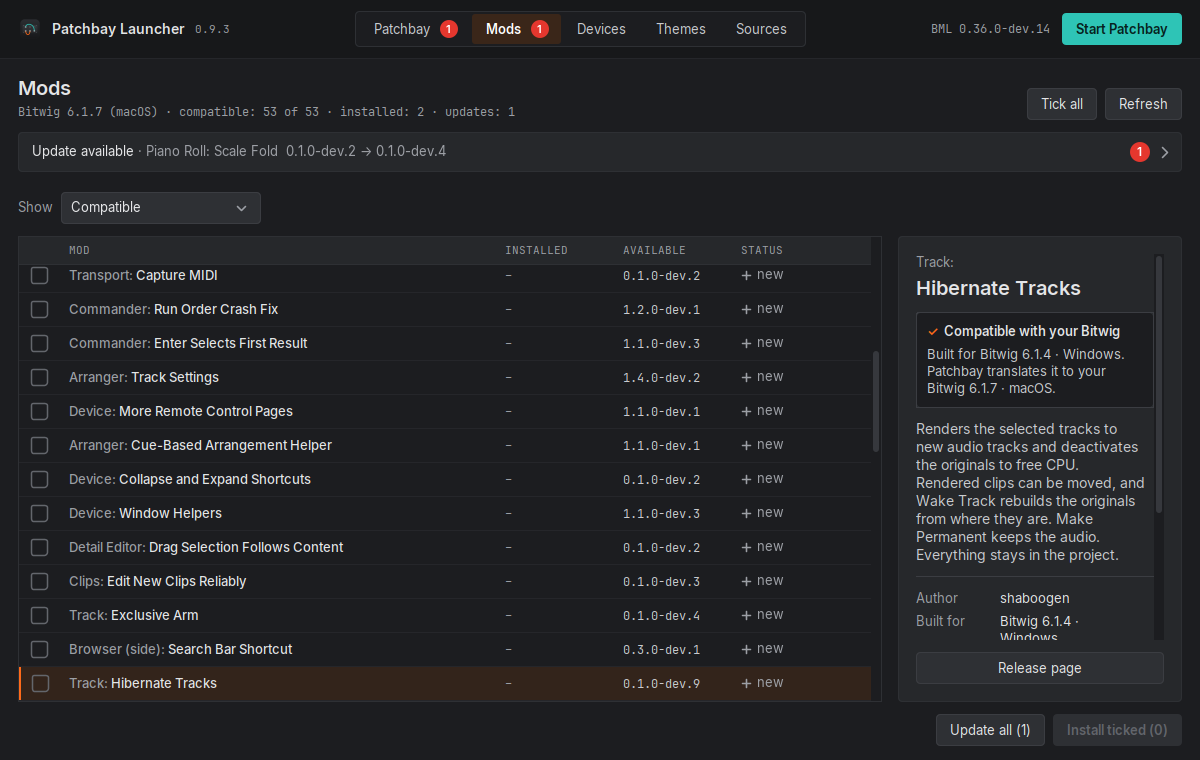
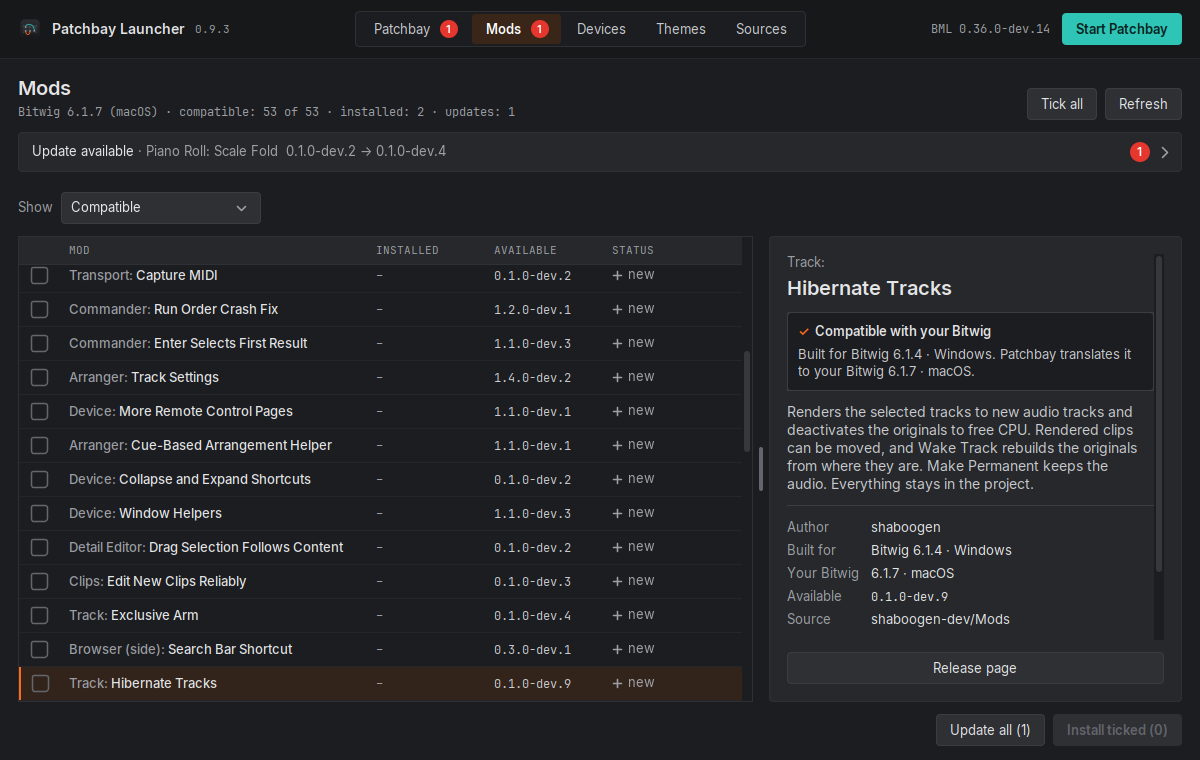
Resizable split between the list and the details
The details take about a third of the width and grow with the window;
the divider can be dragged (remembered for Mods, Devices and Themes) and
double-clicked to reset. Wrapped text and previews follow the width.

Claude-Session: https://claude.ai/code/session_01NY4XL7uJczLdFhWieRK4LM

diff --git a/src/Theme.java b/src/Theme.java
@@ -512,13 +512,194 @@ public final class Theme {
         return l;
     }
 
-    /** Text that wraps at the given width. */
+    /** Text that wraps to the width it is given; width is what it asks for when nothing gives it more. */
     static JLabel wrapped(String text, int width, Color color, float size) {
         String safe = text.replace("&", "&amp;").replace("<", "&lt;").replace(">", "&gt;");
-        JLabel l = new JLabel("<html><body style='width:" + width + "px'>" + safe + "</body></html>");
+        JLabel l = new Wrap("<html>" + safe + "</html>", width);
         l.setFont(text(size));
         l.setForeground(color);
         return l;
+    }
+
+    /**
+     * An HTML label that wraps at its current width, so text in a panel the user can widen fills it.
+     * It asks for the given width; a layout that gives it more (a column, the centre of a border layout) gets taller-to-shorter text.
+     */
+    static final class Wrap extends JLabel {
+        private final int hint;
+        private int measured = -1;
+
+        Wrap(String html, int hint) {
+            super(html);
+            this.hint = hint;
+            setVerticalAlignment(SwingConstants.TOP);
+            addComponentListener(new java.awt.event.ComponentAdapter() {
+                @Override public void componentResized(java.awt.event.ComponentEvent e) {
+                    if (getWidth() != measured) { measured = getWidth(); revalidate(); }
+                }
+            });
+        }
+
+        private int heightAt(int width) {
+            Object v = getClientProperty(javax.swing.plaf.basic.BasicHTML.propertyKey);
+            Insets in = getInsets();
+            if (!(v instanceof javax.swing.text.View view)) return super.getPreferredSize().height;
+            int w = Math.max(20, width - in.left - in.right);
+            view.setSize(w, 0);
+            return (int) Math.ceil(view.getPreferredSpan(javax.swing.text.View.Y_AXIS)) + in.top + in.bottom;
+        }
+
+        @Override public Dimension getPreferredSize() {
+            if (isPreferredSizeSet()) return super.getPreferredSize();
+            return new Dimension(hint, heightAt(getWidth() > 0 ? getWidth() : hint));
+        }
+        @Override public Dimension getMinimumSize() { return new Dimension(Math.min(hint, 60), getPreferredSize().height); }
+        @Override public Dimension getMaximumSize() { return new Dimension(Integer.MAX_VALUE, getPreferredSize().height); }
+    }
+
+    /** A picture that takes the width it is given (up to its own) and keeps its proportions; at most maxHeight tall. */
+    static final class Picture extends JComponent {
+        private java.awt.image.BufferedImage image;
+        private final int hint, maxHeight;
+        private int measured = -1;
+
+        Picture(int hint, int maxHeight) {
+            this.hint = hint;
+            this.maxHeight = maxHeight;
+            addComponentListener(new java.awt.event.ComponentAdapter() {
+                @Override public void componentResized(java.awt.event.ComponentEvent e) {
+                    if (getWidth() != measured) { measured = getWidth(); revalidate(); repaint(); }
+                }
+            });
+        }
+
+        void setImage(java.awt.image.BufferedImage img) { image = img; revalidate(); repaint(); }
+
+        @Override public javax.accessibility.AccessibleContext getAccessibleContext() {
+            if (accessibleContext == null) accessibleContext = new AccessibleJComponent() {
+                @Override public javax.accessibility.AccessibleRole getAccessibleRole() { return javax.accessibility.AccessibleRole.ICON; }
+            };
+            return accessibleContext;
+        }
+
+        private Dimension fit(int width) {
+            if (image == null) return new Dimension(0, 0);
+            double scale = Math.min(1.0, Math.min((double) width / image.getWidth(), (double) maxHeight / image.getHeight()));
+            return new Dimension(Math.max(1, (int) (image.getWidth() * scale)), Math.max(1, (int) (image.getHeight() * scale)));
+        }
+
+        @Override public Dimension getPreferredSize() {
+            if (image == null) return new Dimension(0, 0);
+            return new Dimension(Math.min(hint, image.getWidth()), fit(getWidth() > 0 ? getWidth() : hint).height);
+        }
+        @Override public Dimension getMaximumSize() { return new Dimension(Integer.MAX_VALUE, getPreferredSize().height); }
+
+        @Override protected void paintComponent(Graphics g) {
+            if (image == null) return;
+            Dimension d = fit(getWidth());
+            Graphics2D g2 = (Graphics2D) g.create();
+            g2.setRenderingHint(RenderingHints.KEY_INTERPOLATION, RenderingHints.VALUE_INTERPOLATION_BICUBIC);
+            g2.setRenderingHint(RenderingHints.KEY_RENDERING, RenderingHints.VALUE_RENDER_QUALITY);
+            g2.drawImage(image, 0, 0, d.width, d.height, null);
+            g2.dispose();
+        }
+    }
+
+    /** A copy no wider than maxWidth, scaled once with care, for pictures shown many times. */
+    static java.awt.image.BufferedImage shrink(java.awt.image.BufferedImage img, int maxWidth) {
+        if (img.getWidth() <= maxWidth) return img;
+        int w = maxWidth, h = Math.max(1, (int) Math.round(img.getHeight() * (double) maxWidth / img.getWidth()));
+        java.awt.image.BufferedImage out = new java.awt.image.BufferedImage(w, h, java.awt.image.BufferedImage.TYPE_INT_ARGB);
+        Graphics2D g = out.createGraphics();
+        g.drawImage(img.getScaledInstance(w, h, Image.SCALE_SMOOTH), 0, 0, null);
+        g.dispose();
+        return out;
+    }
+
+    // ---------- the list and its details, side by side ----------
+
+    /** The details' share of the width, the same in every section; dragging the divider changes it, a double-click resets it. */
+    static final double DETAILS_SHARE = 0.36;
+    private static final java.util.List<JSplitPane> SPLITS = new java.util.ArrayList<>();
+
+    static double detailsShare() {
+        try {
+            double v = Double.parseDouble(String.valueOf(I18n.setting("detailsShare")));
+            return Math.max(0.2, Math.min(0.5, v));
+        } catch (RuntimeException none) {
+            return DETAILS_SHARE;
+        }
+    }
+
+    /** A list on the left and its details on the right with a divider between them that the user can drag. */
+    static JSplitPane split(JComponent list, JComponent details) {
+        JSplitPane sp = new JSplitPane(JSplitPane.HORIZONTAL_SPLIT, true, list, details);
+        sp.setUI(new SplitUI());
+        sp.setBorder(null);
+        sp.setOpaque(false);
+        sp.setDividerSize(16);
+        list.setMinimumSize(new Dimension(520, 100));
+        details.setMinimumSize(new Dimension(280, 100));
+        sp.setResizeWeight(1 - detailsShare());
+        sp.getAccessibleContext().setAccessibleName(PatchbayLauncher.t("Podział między listą a szczegółami", "Divider between the list and the details"));
+        SPLITS.add(sp);
+        sp.addComponentListener(new java.awt.event.ComponentAdapter() {
+            @Override public void componentResized(java.awt.event.ComponentEvent e) { place(sp, detailsShare()); }
+        });
+        return sp;
+    }
+
+    /** Puts the divider where the details get this share of the width, keeping both sides above their minimum. */
+    private static void place(JSplitPane sp, double share) {
+        int room = sp.getWidth() - sp.getDividerSize();
+        if (room <= 0) return;
+        int details = (int) Math.round(room * share);
+        details = Math.max(sp.getRightComponent().getMinimumSize().width, Math.min(details, room - sp.getLeftComponent().getMinimumSize().width));
+        sp.setResizeWeight(1 - share);
+        sp.setDividerLocation(room - details);
+    }
+
+    private static void remember(double share) {
+        I18n.remember("detailsShare", String.format(Locale.ROOT, "%.3f", share));
+        for (JSplitPane other : SPLITS) place(other, share);
+    }
+
+    /** The divider: a short bar in the middle that turns orange under the pointer; dragging it or double-clicking resets. */
+    static final class SplitUI extends javax.swing.plaf.basic.BasicSplitPaneUI {
+        @Override public javax.swing.plaf.basic.BasicSplitPaneDivider createDefaultDivider() {
+            javax.swing.plaf.basic.BasicSplitPaneDivider d = new javax.swing.plaf.basic.BasicSplitPaneDivider(this) {
+                private boolean over;
+                {
+                    setBorder(null);
+                    setCursor(Cursor.getPredefinedCursor(Cursor.E_RESIZE_CURSOR));
+                    addMouseListener(new java.awt.event.MouseAdapter() {
+                        @Override public void mouseEntered(java.awt.event.MouseEvent e) { over = true; repaint(); }
+                        @Override public void mouseExited(java.awt.event.MouseEvent e) { over = false; repaint(); }
+                        @Override public void mouseReleased(java.awt.event.MouseEvent e) {
+                            JSplitPane sp = splitPane;
+                            int room = sp.getWidth() - sp.getDividerSize();
+                            if (room > 0) remember((double) (room - sp.getDividerLocation()) / room);
+                        }
+                        @Override public void mouseClicked(java.awt.event.MouseEvent e) {
+                            if (e.getClickCount() == 2) remember(DETAILS_SHARE);
+                        }
+                    });
+                }
+                @Override public void paint(Graphics g) {
+                    Graphics2D g2 = (Graphics2D) g.create();
+                    g2.setRenderingHint(RenderingHints.KEY_ANTIALIASING, RenderingHints.VALUE_ANTIALIAS_ON);
+                    g2.setColor(over ? ACCENT : DIM);
+                    int w = 4, h = 44;
+                    g2.fillRoundRect((getWidth() - w) / 2, (getHeight() - h) / 2, w, h, 4, 4);
+                    g2.dispose();
+                }
+            };
+            return d;
+        }
+        @Override public void installUI(JComponent c) {
+            super.installUI(c);
+            c.setBorder(null);
+        }
     }
 
     /** "Track: Hibernate Tracks" as a grey prefix and a light name. */
@@ -767,7 +948,9 @@ public final class Theme {
             JLabel value = monoValue ? label(rows[i][1], mono(12f), TEXT)
                 : wrapped(rows[i][1].replace("/", "/\u200B"), 104, TEXT, 13f);
             value.setToolTipText(rows[i][1]);
+            g.fill = GridBagConstraints.HORIZONTAL;
             p.add(value, g);
+            g.fill = GridBagConstraints.NONE;
         }
         return p;
     }

diff --git a/src/Themes.java b/src/Themes.java
@@ -292,7 +292,7 @@ final class Themes {
         private final JButton refreshButton = Theme.button(PatchbayLauncher.t("Odśwież", "Refresh"), "secondary");
         private final JLabel status = Theme.label(" ", Theme.text(14f), Theme.MUTED);
         private final JProgressBar bar = new JProgressBar();
-        private final Map<String, ImageIcon> previews = new HashMap<>();
+        private final Map<String, BufferedImage> previews = new HashMap<>();
         private List<Item> items = List.of();
         private boolean busy, loaded;
         private String shownPreview;
@@ -312,12 +312,8 @@ final class Themes {
             table.getColumnModel().getColumn(3).setCellRenderer(Theme.pillCells());
             table.getSelectionModel().addListSelectionListener(e -> { if (!e.getValueIsAdjusting()) showSelected(); });
 
-            details.setPreferredSize(new Dimension(320, 10));
             details.setBorder(new EmptyBorder(18, 18, 18, 18));
-            JPanel body = new JPanel(new BorderLayout(16, 0));
-            body.setOpaque(false);
-            body.add(Theme.framed(table), BorderLayout.CENTER);
-            body.add(details, BorderLayout.EAST);
+            JComponent body = Theme.split(Theme.framed(table), details);
 
             bar.setPreferredSize(new Dimension(10, 4));
             bar.setVisible(false);
@@ -450,7 +446,7 @@ final class Themes {
             }
             Row row = rows.get(r);
             Item item = row.item();
-            JLabel preview = new JLabel();
+            Theme.Picture preview = new Theme.Picture(282, 360);
             preview.setAlignmentX(LEFT_ALIGNMENT);
             preview.getAccessibleContext().setAccessibleName(PatchbayLauncher.t("Podgląd motywu: ", "Theme preview: ") + item.name());
             col.add(preview);
@@ -508,18 +504,18 @@ final class Themes {
             if (item.preview() == null) return;
             String k = item.repo() + "/" + item.preview();
             shownPreview = k;
-            ImageIcon have = previews.get(k);
-            if (have != null) { preview.setIcon(have); return; }
+            BufferedImage have = previews.get(k);
+            if (have != null) { preview.setImage(have); return; }
             new Thread(() -> {
-                ImageIcon icon = loadPreview(item);
+                BufferedImage icon = loadPreview(item);
                 SwingUtilities.invokeLater(() -> {
                     if (icon != null) previews.put(k, icon);
-                    if (k.equals(shownPreview)) { preview.setIcon(icon); details.revalidate(); }
+                    if (k.equals(shownPreview)) { preview.setImage(icon); details.revalidate(); }
                 });
             }, "themes-preview").start();
         }
 
-        private ImageIcon loadPreview(Item item) {
+        private BufferedImage loadPreview(Item item) {
             try {
                 BufferedImage img;
                 if (fixtures() != null) {
@@ -536,9 +532,7 @@ final class Themes {
                     }
                 }
                 if (img == null) return null;
-                double scale = Math.min(1.0, Math.min(282.0 / img.getWidth(), 200.0 / img.getHeight()));
-                int w = Math.max(1, (int) (img.getWidth() * scale)), h = Math.max(1, (int) (img.getHeight() * scale));
-                return new ImageIcon(img.getScaledInstance(w, h, Image.SCALE_SMOOTH));
+                return Theme.shrink(img, 640);
             } catch (IOException | RuntimeException e) {
                 return null;
             }

diff --git a/src/Devices.java b/src/Devices.java
@@ -307,7 +307,7 @@ final class Devices {
         private final JButton refreshButton = Theme.button(PatchbayLauncher.t("Odśwież", "Refresh"), "secondary");
         private final JLabel status = Theme.label(" ", Theme.text(14f), Theme.MUTED);
         private final JProgressBar bar = new JProgressBar();
-        private final Map<String, ImageIcon> previews = new HashMap<>();
+        private final Map<String, BufferedImage> previews = new HashMap<>();
         private List<Item> items = List.of();
         private String bitwig;
         private boolean busy, loaded, filling;
@@ -328,12 +328,8 @@ final class Devices {
             table.getColumnModel().getColumn(3).setCellRenderer(Theme.pillCells());
             table.getSelectionModel().addListSelectionListener(e -> { if (!e.getValueIsAdjusting()) showSelected(); });
 
-            details.setPreferredSize(new Dimension(320, 10));
             details.setBorder(new EmptyBorder(18, 18, 18, 18));
-            JPanel body = new JPanel(new BorderLayout(16, 0));
-            body.setOpaque(false);
-            body.add(Theme.framed(table), BorderLayout.CENTER);
-            body.add(details, BorderLayout.EAST);
+            JComponent body = Theme.split(Theme.framed(table), details);
 
             buildBox.setPreferredSize(new Dimension(170, 34));
             buildBox.setFont(Theme.mono(13f));
@@ -475,7 +471,7 @@ final class Devices {
                 return;
             }
             Item item = rows.get(r).item();
-            JLabel preview = new JLabel();
+            Theme.Picture preview = new Theme.Picture(282, 360);
             preview.setAlignmentX(LEFT_ALIGNMENT);
             preview.getAccessibleContext().setAccessibleName(PatchbayLauncher.t("Podgląd panelu: ", "Panel preview: ") + item.name());
             col.add(preview);
@@ -512,18 +508,18 @@ final class Devices {
 
             String key = item.repo() + "/" + item.previewPath();
             shownPreview = key;
-            ImageIcon have = previews.get(key);
-            if (have != null) { preview.setIcon(have); return; }
+            BufferedImage have = previews.get(key);
+            if (have != null) { preview.setImage(have); return; }
             new Thread(() -> {
-                ImageIcon icon = loadPreview(item);
+                BufferedImage icon = loadPreview(item);
                 SwingUtilities.invokeLater(() -> {
                     if (icon != null) previews.put(key, icon);
-                    if (key.equals(shownPreview)) { preview.setIcon(icon); details.revalidate(); }
+                    if (key.equals(shownPreview)) { preview.setImage(icon); details.revalidate(); }
                 });
             }, "devices-preview").start();
         }
 
-        private ImageIcon loadPreview(Item item) {
+        private BufferedImage loadPreview(Item item) {
             try {
                 BufferedImage img;
                 if (fixtures() != null) {
@@ -540,9 +536,7 @@ final class Devices {
                     }
                 }
                 if (img == null) return null;
-                double scale = Math.min(1.0, Math.min(282.0 / img.getWidth(), 280.0 / img.getHeight()));
-                int w = Math.max(1, (int) (img.getWidth() * scale)), h = Math.max(1, (int) (img.getHeight() * scale));
-                return new ImageIcon(img.getScaledInstance(w, h, Image.SCALE_SMOOTH));
+                return Theme.shrink(img, 640);
             } catch (IOException | RuntimeException e) {
                 return null;
             }

diff --git a/src/Mods.java b/src/Mods.java
@@ -586,12 +586,8 @@ final class Mods {
             table.getColumnModel().getColumn(4).setMaxWidth(150);
             table.getSelectionModel().addListSelectionListener(e -> { if (!e.getValueIsAdjusting()) showSelected(); });
 
-            details.setPreferredSize(new Dimension(284, 10));
             details.setBorder(new EmptyBorder(18, 18, 18, 18));
-            JPanel body = new JPanel(new BorderLayout(16, 0));
-            body.setOpaque(false);
-            body.add(Theme.framed(table), BorderLayout.CENTER);
-            body.add(details, BorderLayout.EAST);
+            JComponent body = Theme.split(Theme.framed(table), details);
 
             bar.setPreferredSize(new Dimension(10, 4));
             bar.setVisible(false);

diff --git a/CHANGELOG.md b/CHANGELOG.md
@@ -3,6 +3,7 @@
 ## 0.9.3
 
 - **New look:** the sections are tabs in a bar across the top (more room for the lists), Bitwig's orange for what you can do, a teal "Start Patchbay", Inter and JetBrains Mono (bundled, SIL Open Font License), thin frames, status as coloured text with a mark.
+- **List and details side by side, resizable:** the details take about a third of the window (more room for descriptions and previews in a bigger window); drag the divider between them to change it, double-click it to reset. The launcher remembers it for Mods, Devices and Themes.
 - **Updates as macOS shows them:** a red count on the Patchbay and Mods tabs, and an "Update available" bar; in Mods it lists what changed and a click shows only the mods with updates.
 - **Linux (beta):** `Patchbay-Launcher-<version>-linux.tar.gz` with a start script that finds Bitwig's Java (`/opt/bitwig-studio/lib/jre`, or the Bitwig chosen in Patchbay), Patchbay's Linux build (`BML-*-linux.zip`), settings in `~/.config/bml`, data in `~/.local/share/PatchbayLauncher`, Bitwig's version from dpkg / rpm / Flatpak, notifications with `notify-send`, and an "Add to the applications menu" entry.
 - Folders and web pages open with `xdg-open` where Java can't open them.
